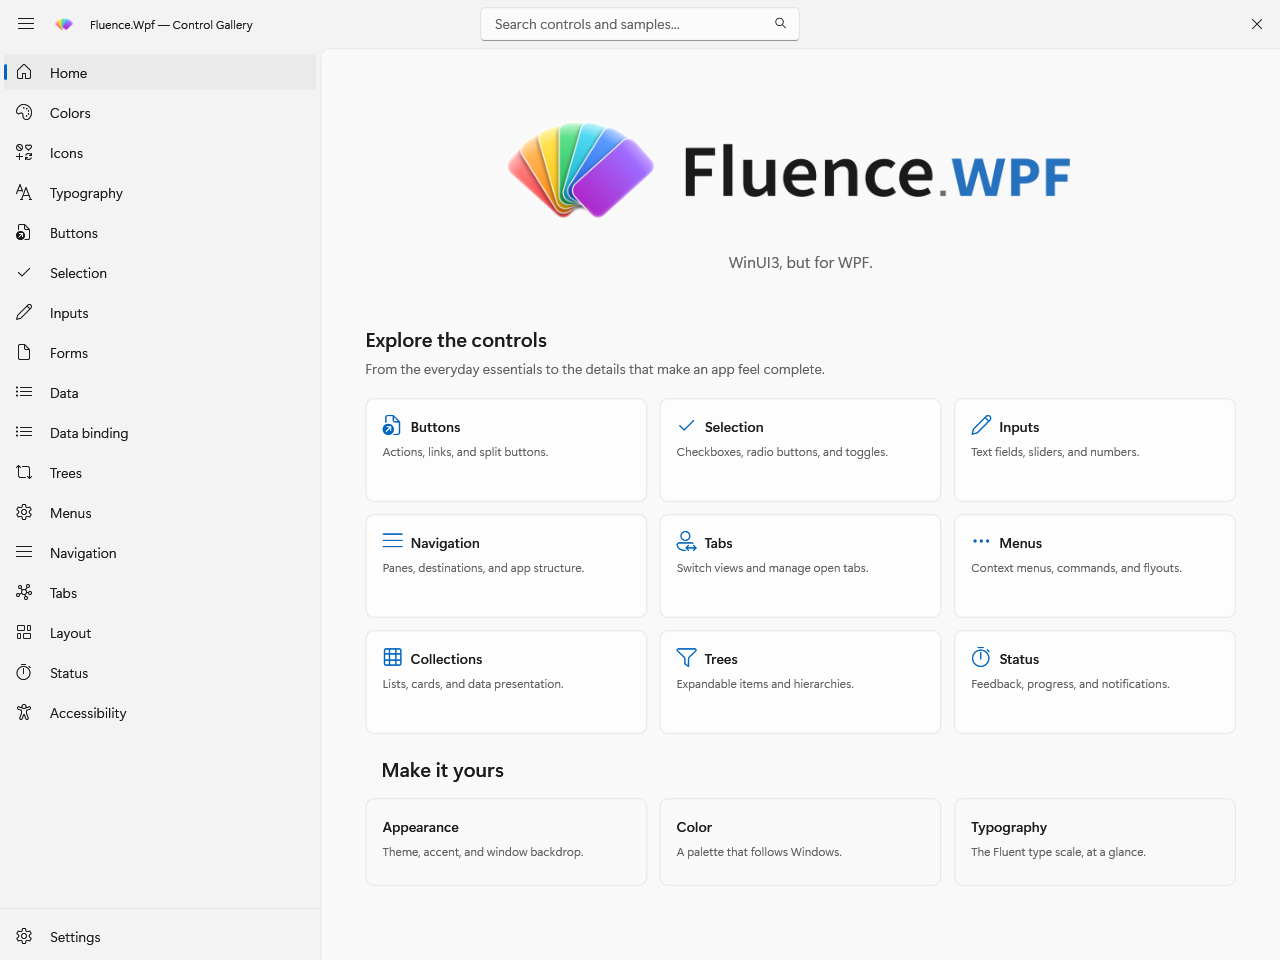
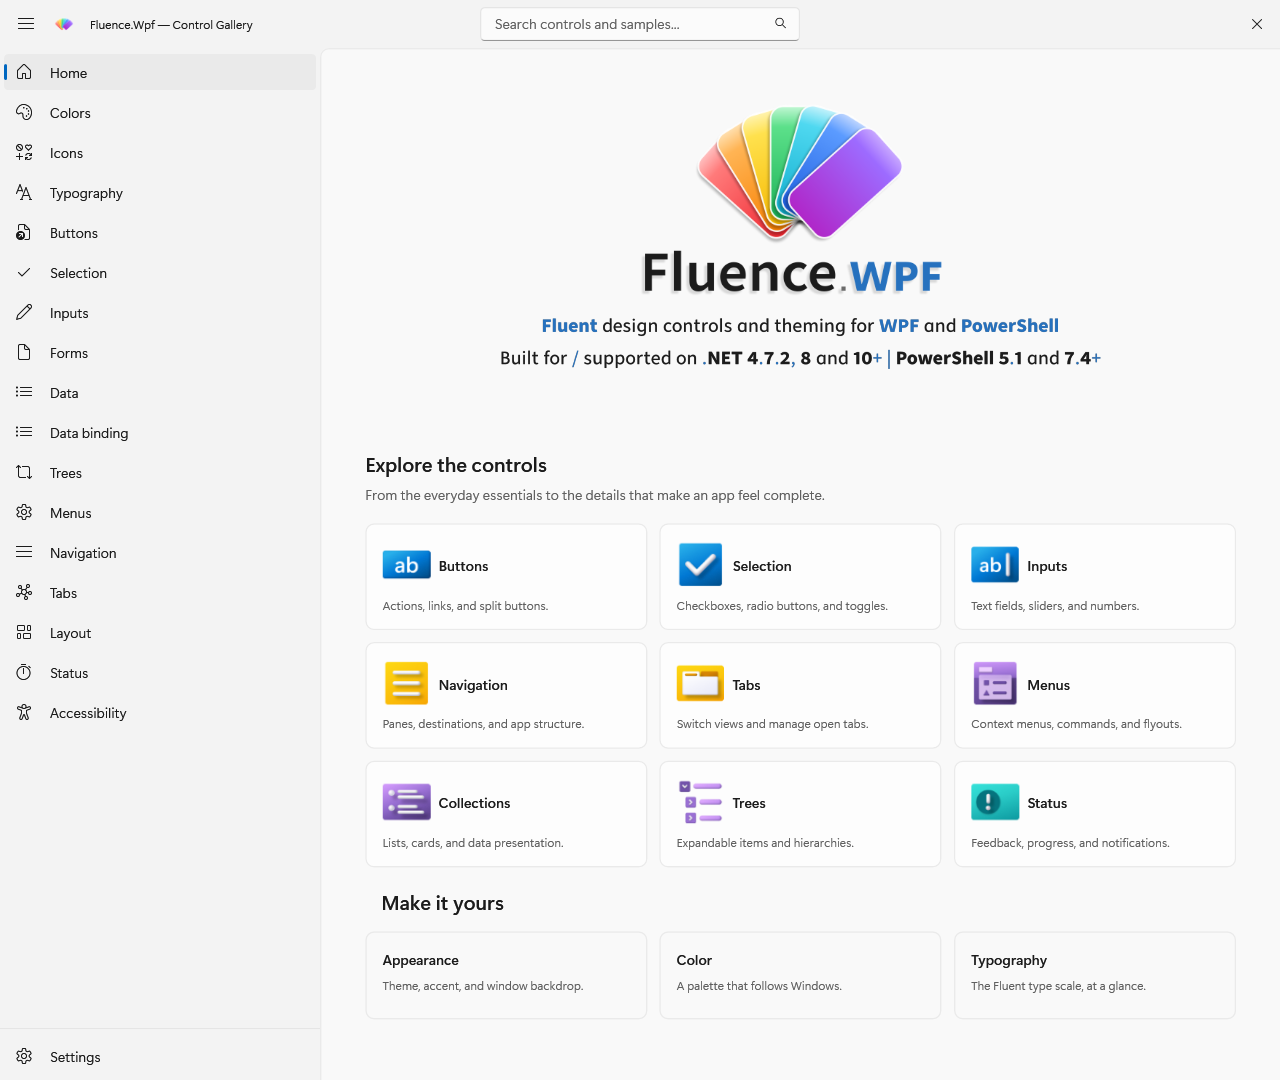
Finalize stable 0.9.1 release notes and homepage captures
Fold the completed artwork and gallery changes into the dated release notes and
refresh the reviewed Light and Dark homepage screenshots.

diff --git a/CHANGELOG.md b/CHANGELOG.md
@@ -18,8 +18,10 @@ Version headings are the SemVer version. The git tag for a version is `v` plus t
 ### Changed
 
 - `ApplyCustomAccent` snapshots Windows' seven-shade palette when a supplied seed matches the current Windows accent base. Other custom seeds use the existing generated approximation; `ApplySystemAccent` continues to follow Windows changes live.
-- Updated the editable brand artwork (`assets/Fluence.Wpf.af`) and standardized icon, horizontal lockup, and stacked lockup exports under `assets/`.
-- The gallery hero and library header drawings use the supplied horizontal lockups for Light, Dark, and high contrast. The package, demos, and documentation captures use the standardized icon exports; the color icon remains a native WPF vector drawing.
+- Updated the editable brand artwork (`assets/Fluence.Wpf.af`) and refreshed the supplied icon, horizontal and stacked lockup, and banner exports under `assets/`. The package and library headers use the matching icon and lockup artwork; the color icon remains a native WPF vector drawing.
+- Gallery Home uses native WPF drawings generated from the Light and Dark SVG banners, including their embedded fan, wordmark, and tagline images and matching high-contrast polarity. Its nine featured control cards use the existing control illustrations in place of font glyphs; labels, routes, and accessibility names remain the same.
+- The Icons gallery fades its selected tile outline over 100 ms when a tile is clicked. Selection and detail values update immediately; high contrast and reduced-motion settings skip the fade.
+- Removed unused demo styles left by earlier gallery layouts and stopped packaging the old demo-only horizontal lockup PNG copies.
 - Regenerated Light and Dark gallery, control, and PowerShell documentation screenshots under the Windows default-blue system accent, with transparency enabled and accent-colored title bars and borders off. The gallery capture now waits for a dialog to finish closing before recording the next route, so its overlay cannot dim the Navigation screenshots. Named custom-accent examples retain their stated colors. The eight live feature GIFs and matching posters use the system accent for baseline scenes; their capture scripts minimize other desktop windows and restore them afterward. Offscreen documentation captures omit native DWM backdrop and shadow pixels.
 - Runnable C# documentation walkthroughs and their screenshot workflow now live in the website repository. The source-authored control, theming, parity, and API-index pages remain synchronized there.
 - Expanded regression coverage for exact accents, high-contrast states, a high-contrast window border, and opt-in gallery capture. Discovery baselines contain 1,388 net472 and 1,391 net10 cases; normal Release test runs exclude screenshot cases.
